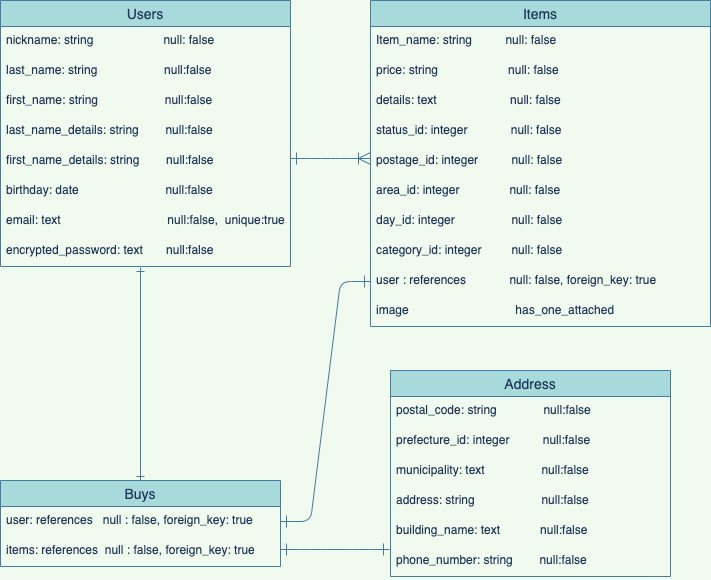
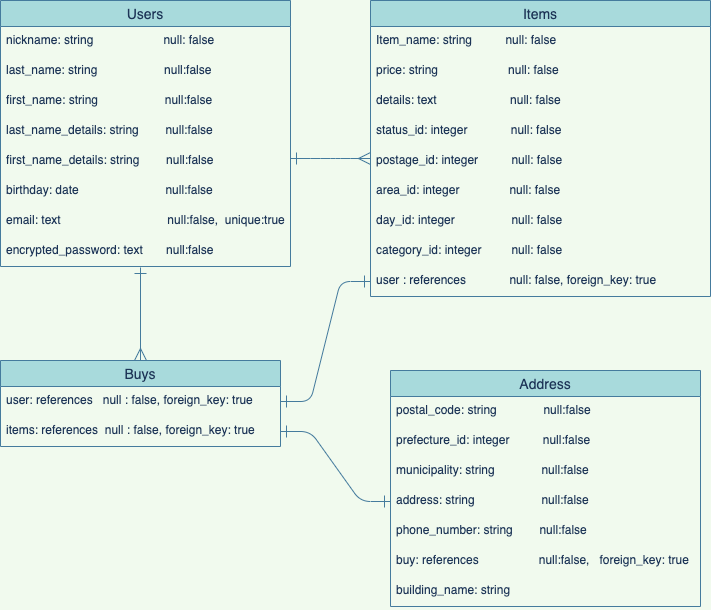
データベース設計修正2

diff --git a/README.md b/README.md
@@ -17,14 +17,13 @@
 ### Association
 
 has_many :items
-has_one :buy
+has_many :buys
 
 ## items テーブル
 
 | Column          | Type       | Options                              |
 | --------------- | ---------- | ------------------------------------ |
 | item_name       | string     | null: false                          |
-| image           | has_one_attached                                  |
 | price           | integer    | null: false                          |
 | details         | text       | null: false                          |
 | status_id       | integer    | null: false                          |
@@ -33,7 +32,7 @@ has_one :buy
 | day_id          | integer    | null: false                          |
 | category_id     | integer    | null: false                          |
 | user            | references | null: false, foreign_key: true       |
-
+<!-- imageはactive_storageを使用 -->
 
 ### Association
 
@@ -54,14 +53,15 @@ belongs_to :item
 
 ## address テーブル
 
-| Column         | Type      | Options                              |
-| -------------- | --------- | ------------------------------------ |
-| postal_code    | string    | null: false                          |
-| prefecture_id  | integer   | null: false                          |
-| municipality   | text      | null: false                          |
-| address        | string    | null: false                          |
-| building_name  | text      | null: false                          |
-| phone_number   | string    | null: false                          |
+| Column         | Type       | Options                              |
+| -------------- | ---------- | ------------------------------------ |
+| postal_code    | string     | null: false                          |
+| prefecture_id  | integer    | null: false                          |
+| municipality   | string     | null: false                          |
+| address        | string     | null: false                          |
+| building_name  | string     |                                      |
+| phone_number   | string     | null: false                          |
+| buy            | references | null: false,  foreign_key: true      |
 
 
 ### Association
